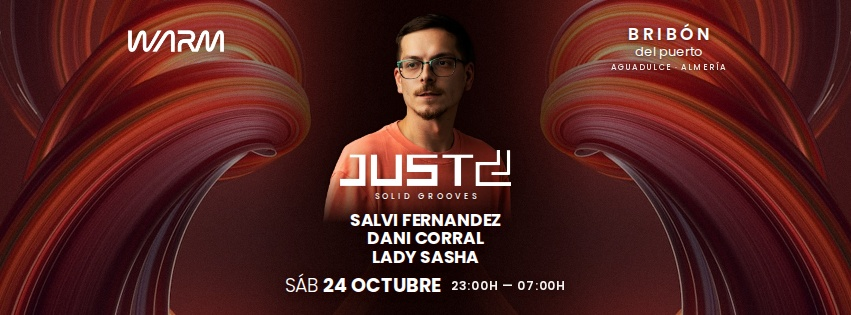
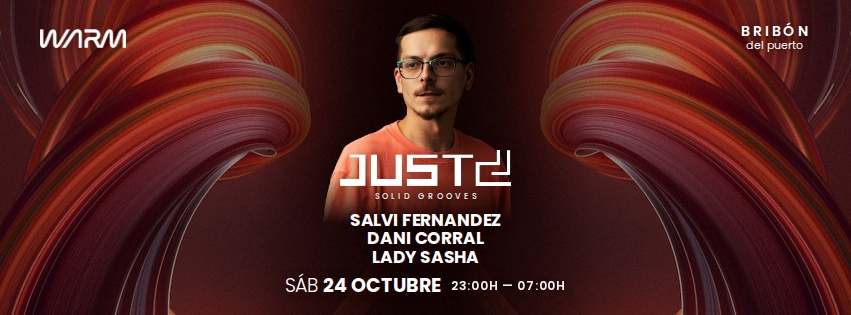
WARM 24.10 — copertă FB 851×315: logouri în colțuri ca pe coperta 1920
Claude-Session: https://claude.ai/code/session_01PsYJ7xTqRMzxVLnVuQx1Lt

Changed region(s): [[0.7027, 0.0571, 0.9471, 0.2286], [0.0306, 0.0857, 0.275, 0.1714]]

diff --git a/warm_24oct/cover_851.html b/warm_24oct/cover_851.html
@@ -7,10 +7,10 @@ body{width:851px;height:315px;overflow:hidden;background:#200606 url(bg_swirl_85
  -webkit-mask-image:linear-gradient(180deg,#000 0%,#000 37%,rgba(0,0,0,0) 45%);filter:drop-shadow(0 0 18px rgba(20,0,0,.55))}
 .sh{text-shadow:0 1px 8px rgba(40,5,0,.65),0 1px 2px rgba(40,5,0,.4)}
 img.sh{filter:drop-shadow(0 1px 7px rgba(40,5,0,.5))}
-.warm{position:absolute;top:30px;left:128px;width:96px}
-.tr{position:absolute;top:26px;right:124px;text-align:center;line-height:1}
-.tr b{display:block;font-weight:600;font-size:17px;letter-spacing:.2em;padding-left:.2em}
-.tr i{display:block;font-style:normal;font-weight:400;font-size:13px;text-transform:none;margin-top:2px}
+.warm{position:absolute;top:29px;left:40px;width:86px}
+.tr{position:absolute;top:24px;right:40px;text-align:center;line-height:1}
+.tr b{display:block;font-weight:600;font-size:14px;letter-spacing:.2em;padding-left:.2em}
+.tr i{display:block;font-style:normal;font-weight:400;font-size:11px;text-transform:none;margin-top:2px}
 .tr small{display:block;font-weight:500;font-size:8px;letter-spacing:.14em;margin-top:6px;opacity:.9}
 .c{position:absolute;left:0;right:0;top:150px;display:flex;flex-direction:column;align-items:center;text-align:center}
 .j2{height:36px}
@@ -22,7 +22,7 @@ img.sh{filter:drop-shadow(0 1px 7px rgba(40,5,0,.5))}
 </style></head><body>
 <div class="photo"></div>
 <img class="warm sh" src="logos/warm_white.png">
-<div class="tr sh"><b>BRIBÓN</b><i>del puerto</i><small>AGUADULCE · ALMERÍA</small></div>
+<div class="tr sh"><b>BRIBÓN</b><i>del puerto</i></div>
 <div class="c sh">
  <img class="j2 sh" src="logos/just2_white.png">
  <div class="label">Solid Grooves</div>
